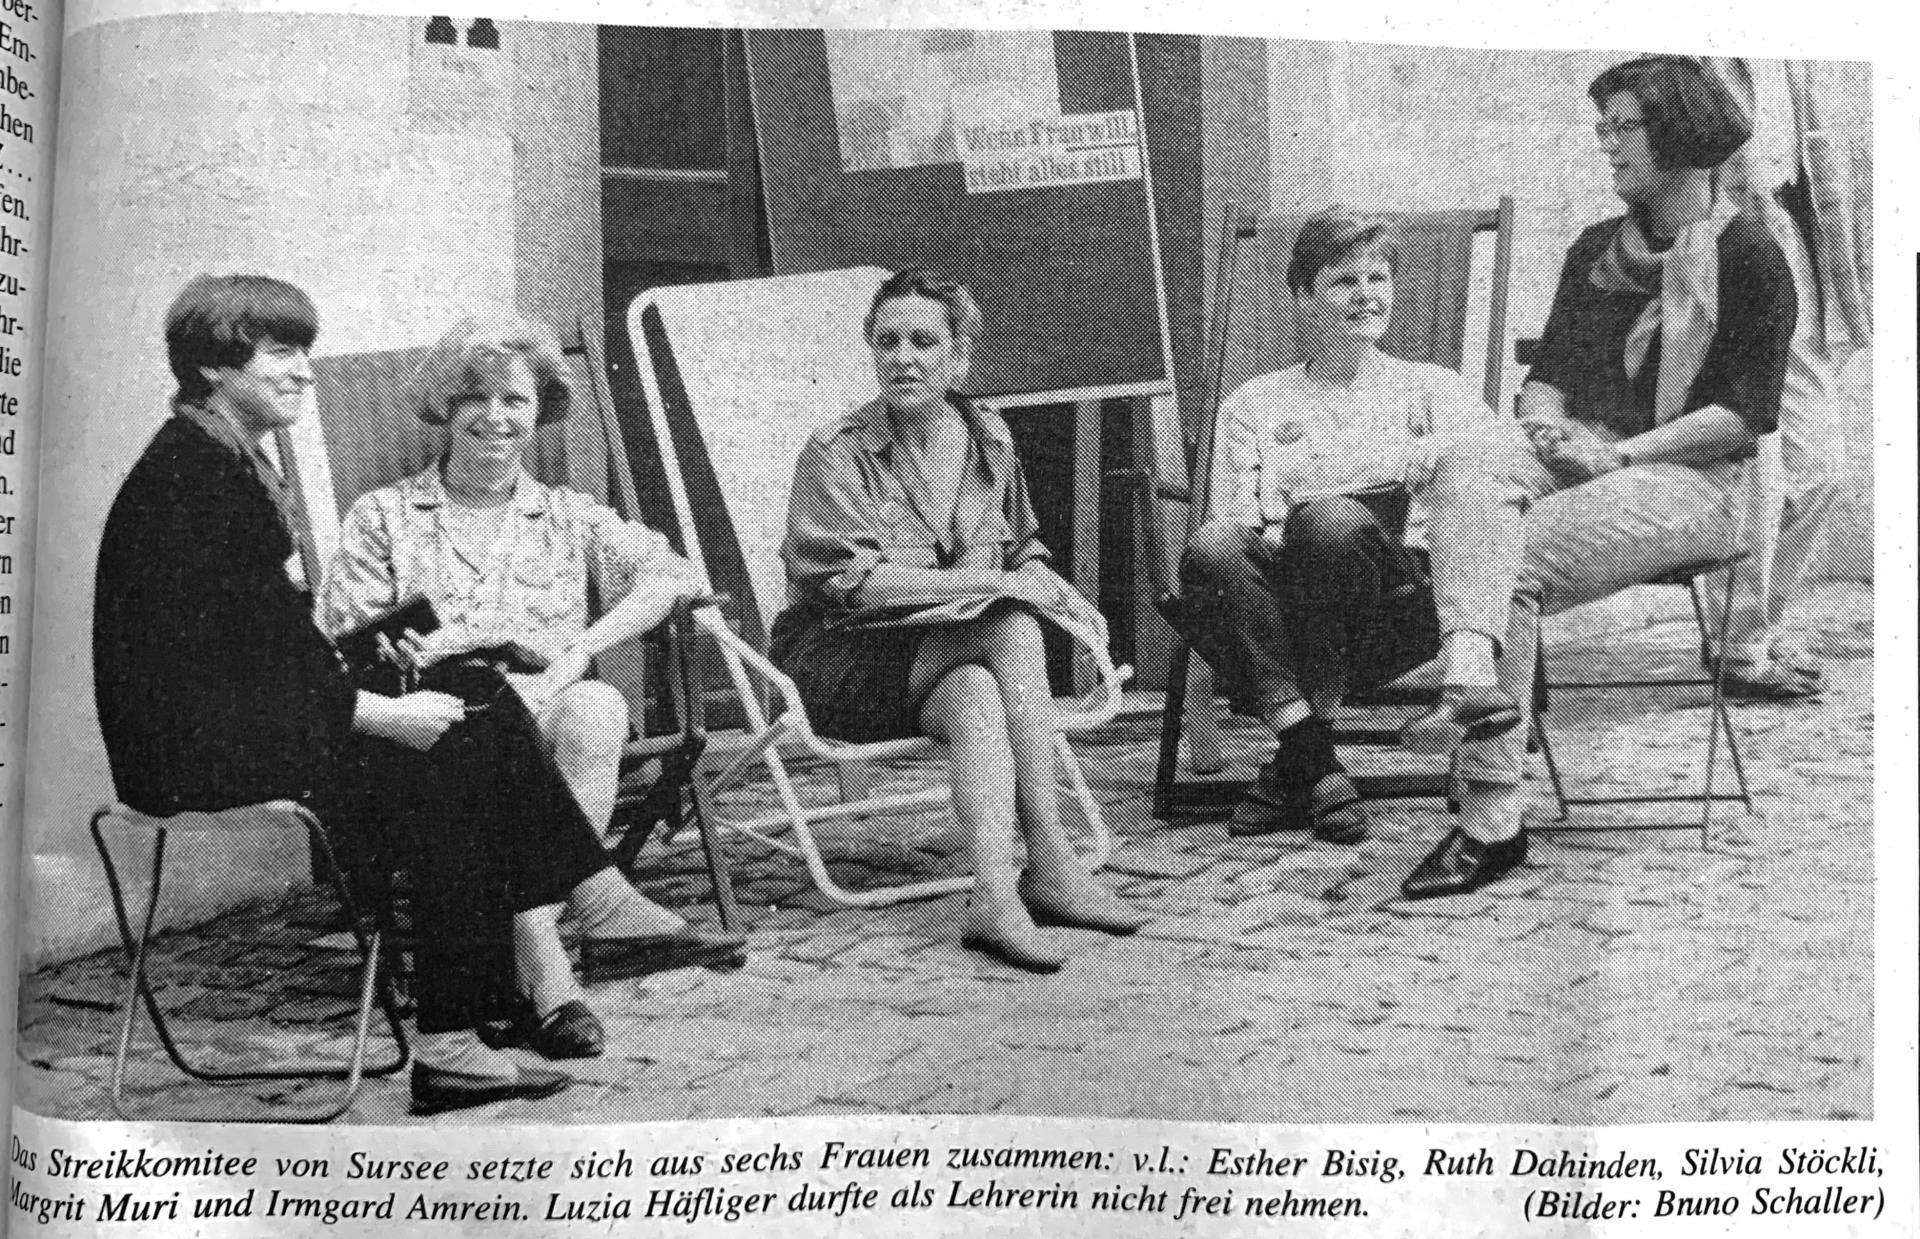
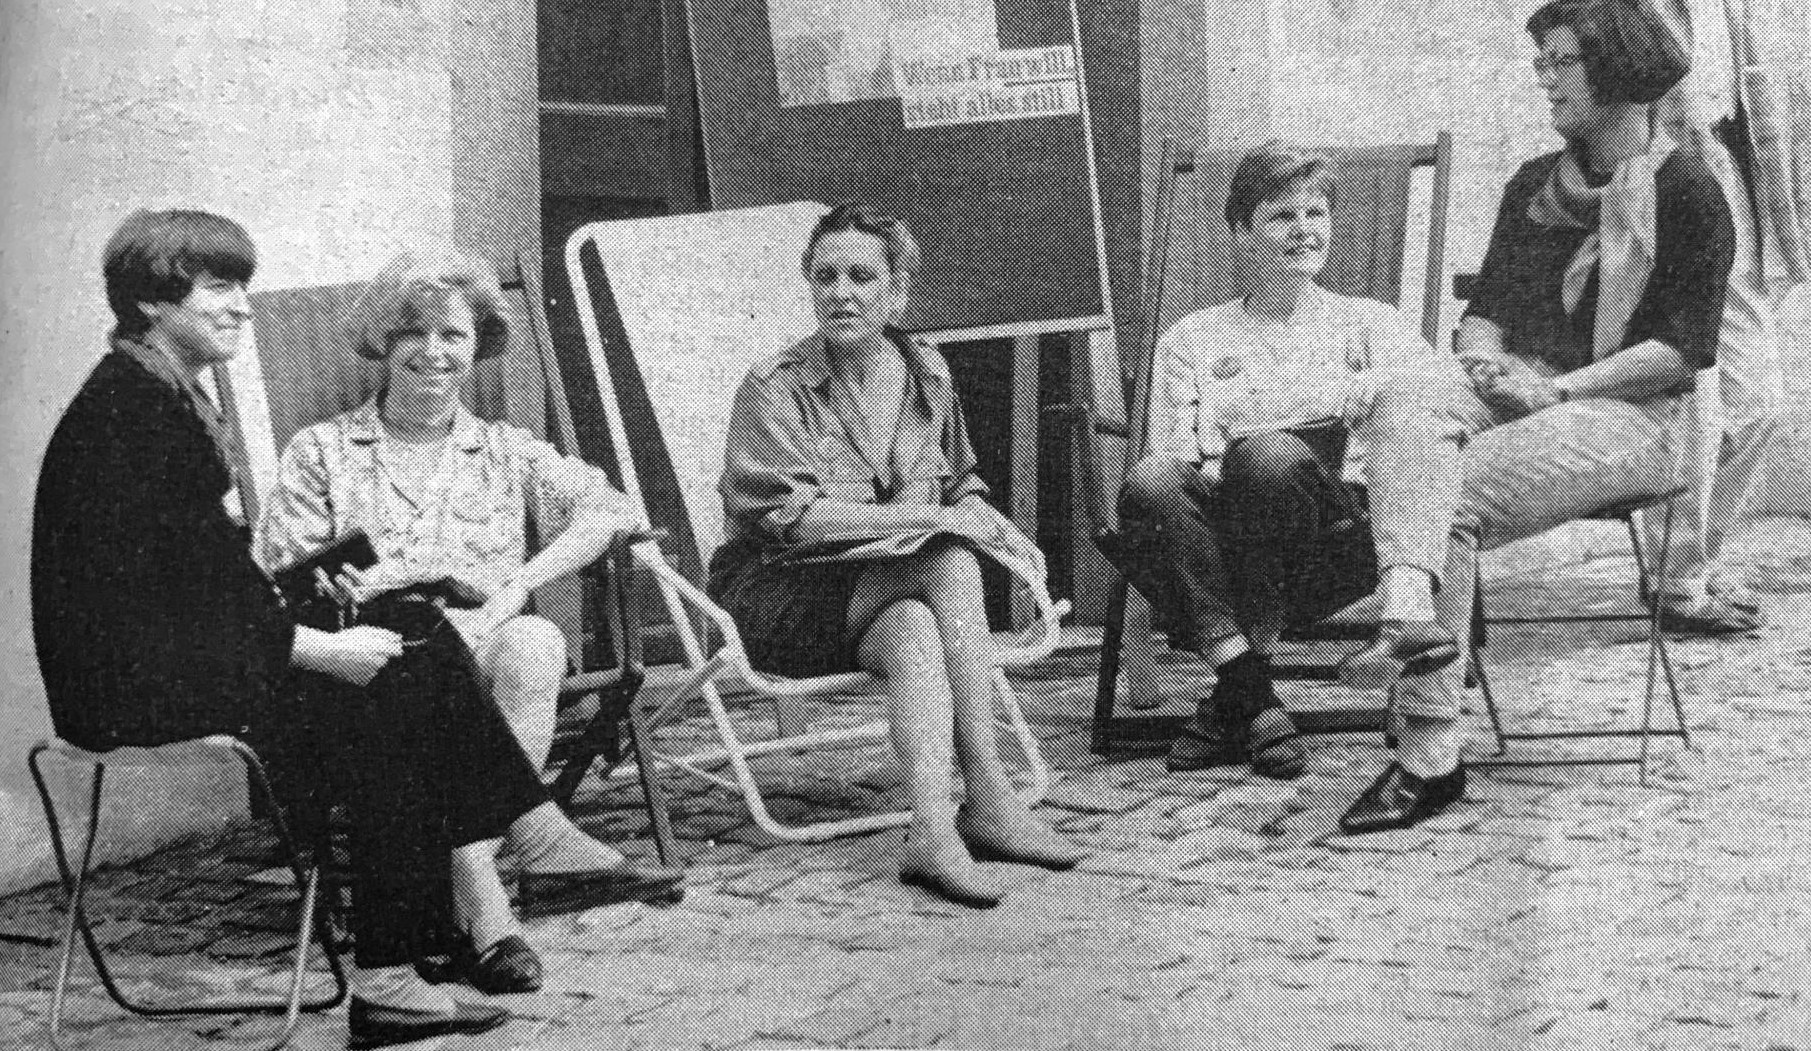
text fixes

diff --git a/index.html b/index.html
@@ -13,10 +13,10 @@
         -->
         <div id="timeline">
             <div class="event">
-                <div class="image" style="background-image: url('./img-3.jpg')"></div>
+                <div class="image" style="background-image: url('./praesidenten.jpg')"></div>
                 <div class="bullet-line">
                     <div class="line-start"></div>
-                    <div class="bullet"><span>1. Feb.<br>1974</span></div>
+                    <div class="bullet"><span>1974</span></div>
                     <div class="line"></div>
                 </div>
                 <div class="content-wrapper">
@@ -25,10 +25,10 @@
                         <p>
                             Am 1. Februar 1974 haben ein paar Unerschrockene im Restaurant
                             Schwyzerheim die SP Sursee und Umgebung gegründet und sich sofort
-                            aktiv in die Surseer Von Anfang an Politik eingemischt.
+                            aktiv in die Surseer Politik eingemischt.
                             Parteipräsident Klaus Lütt versuchte im Luzerner Landboten
                             die damals sicher grossen Befürchtungen der Bevölkerung so zu
-                            zerstreuen: «Aber umstürzlerische Ideen und Parolen haben bei
+                            zerstreuen: «Umstürzlerische Ideen und Parolen haben bei
                             uns keinen Platz. Denn unsere beharrliche Politik,
                             auf demokratische Art und Weise, Schritt für Schritt Veränderungen zu erreichen,
                             wird sich auszahlen.» Und sie hat sich ausgezahlt.
@@ -58,7 +58,7 @@
                 <div class="image" style="background-image: url('./img-2.jpg')"></div>
                 <div class="bullet-line">
                     <div class="line"></div>
-                    <div class="bullet"><span>?. ?.<br>1975</span></div>
+                    <div class="bullet"><span>1975</span></div>
                     <div class="line"></div>
                 </div>
                 <div class="content-wrapper">
@@ -73,13 +73,13 @@
                 <div class="image" style="background-image: url('./img-2.jpg')"></div>
                 <div class="bullet-line">
                     <div class="line"></div>
-                    <div class="bullet"><span>?. ?.<br>1991</span></div>
+                    <div class="bullet"><span>1991</span></div>
                     <div class="line"></div>
                 </div>
                 <div class="content-wrapper">
                     <div class="content">
                         <h2>Erster Grossratsitz für die SP Sursee</h2>
-                        <p>1991 war es dann soweit: Die SP Sursee den ersten Grossratssitz.</p>
+                        <p>1991 war es dann soweit: Die SP Sursee gewann den ersten Grossratssitz für sich.</p>
                     </div>
                 </div>
             </div>
@@ -88,7 +88,7 @@
                 <div class="image" style="background-image: url('./frauenstreik.jpg')"></div>
                 <div class="bullet-line">
                     <div class="line"></div>
-                    <div class="bullet"><span>14. Juni<br>1991</span></div>
+                    <div class="bullet"><span>1991</span></div>
                     <div class="line"></div>
                 </div>
                 <div class="content-wrapper">
@@ -96,7 +96,11 @@
                         <h2>Frauenstreik in Sursee</h2>
                         <p>500'000 Frauen gingen am 14. Juni 1991 auf die Strasse. Zehn Jahre nach der Aufnahme des Gleichstellungsartikels in die Verfassung forderten die Frauen mit Nachdruck dessen Umsetzung.</p>
                         <p>Auch sechs Surseer Frauen wollten Taten sehen. Im «Luzerner Landbote» und auf Flugblättern riefen Irmgard Amrein, Esther Bisig, Ruth Dahinden, Luzia Häfliger, Margrit Muri und Silvia Stocker zum Aktionstag vor dem Rathaus auf.</p>
-                        <img src="frauenstreik-sursee.jpg">
+                        <figure>
+                            <img src="frauenstreik-sursee.jpg">
+                            <figcaption>Das Streikkomitee von Sursee: v.l.: Esther Bisig, Ruth Dahinden, Silvia Stocker, Margrit Muri und Irmgard Amrein.</figcaption>
+                        </figure>
+                        
                         <a href="https://www.surseerwoche.ch/artikel/als-sich-frauen-und-wyber-in-sursee-gegenueberstanden" class="button">Mehr lesen</a>
                     </div>
                 </div>

diff --git a/style.css b/style.css
@@ -1,9 +1,9 @@
 :root {
     --red: #E72C34;
     --black: rgb(36, 36, 36);
-    --timeline-thickness: 14px;
+    --timeline-thickness: 12px;
     --timeline-color: var(--red);
-    --bullet-size: 60px;
+    --bullet-size: 54px;
     --text-size: 16px;
     --title-size: 24px;
     --transition-time: 500ms;
@@ -50,8 +50,8 @@ body {
 }
 
 #timeline .bullet span {
-    font-size: 11px;
     color: white;
+    transform: scale(0.9);
 }
 
 #timeline .line, #timeline .line-start, #timeline .line-end {
@@ -76,7 +76,7 @@ body {
 #timeline .event {
     display: flex;
     flex-direction: row;
-    min-height: 33vh;
+    min-height: 40vh;
     position: relative;
     background-image: linear-gradient(to right, white, transparent);
 }
@@ -144,9 +144,17 @@ body {
     padding: 16px;
     background: var(--red);
     color: white;
-    text-transform: uppercase;
     text-decoration: none;
     display: inline-block;
     margin-top: 1em;
     margin-bottom: 1em;
+    text-shadow: none;
+}
+
+figure {
+    margin: 0;
+}
+
+figcaption {
+    font-style: italic;
 }
